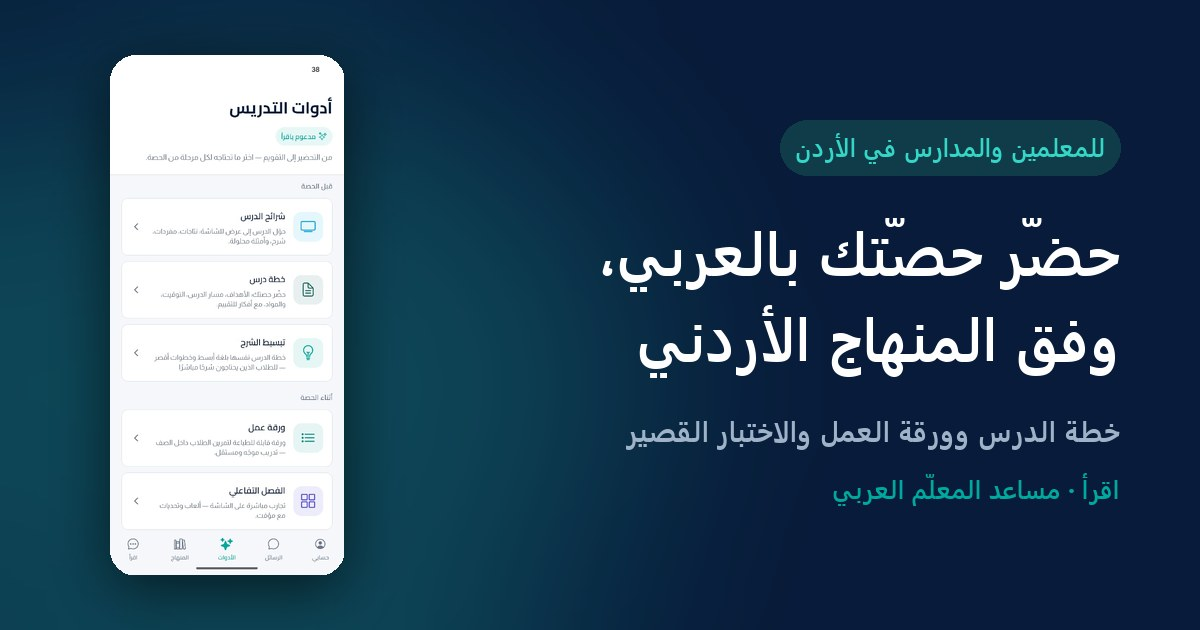
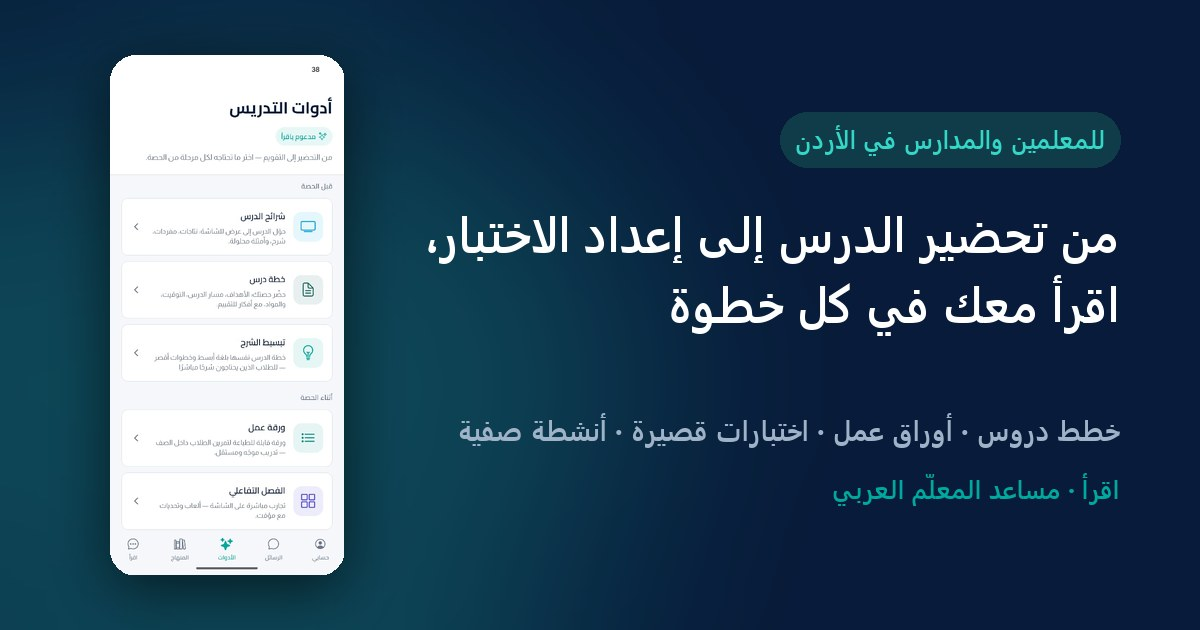
Lead with the whole journey, not just the first step
New hero headline and description, with the meta description, og:title and
og:image:alt moved in step.

The share card itself is re-rendered too — it carries the headline as pixels,
and had been two rewrites behind. The generator now lives in the repo as
tools-make-og.py so the next headline change can regenerate it in one
command instead of rebuilding the script from memory.

Changed region(s): [[0.3392, 0.3317, 0.9558, 0.6032], [0.6475, 0.1508, 0.925, 0.3016], [0.37, 0.6635, 0.925, 0.7238]]

diff --git a/index.html b/index.html
@@ -4,7 +4,7 @@
 <meta charset="utf-8">
 <meta name="viewport" content="width=device-width, initial-scale=1">
 <title>اقرأ — رفيقك في تحضير الحصص</title>
-<meta name="description" content="يساعدك اقرأ على إعداد خطة الدرس وورقة العمل والاختبار القصير وفق نتاجات التعلّم في المنهاج الأردني، جاهزة للتعديل والطباعة خلال دقائق.">
+<meta name="description" content="جهّز خطط الدروس وأوراق العمل والاختبارات القصيرة والواجبات والأنشطة الصفية، مبنية على نتاجات التعلّم في المنهاج الأردني وجاهزة للطباعة والعرض.">
 <!-- SVG for browsers that take it; .ico for Safari and crawlers that ask for
      /favicon.ico regardless; PNG for the iOS home screen. -->
 <link rel="icon" href="favicon.svg" type="image/svg+xml">
@@ -20,13 +20,13 @@
 <meta property="og:url" content="https://www.iqrra.com/">
 <meta property="og:locale" content="ar_JO">
 <meta property="og:site_name" content="اقرأ">
-<meta property="og:title" content="اقرأ — حضّر حصّتك بوقت أقل، وفق المنهاج الأردني">
-<meta property="og:description" content="يساعدك اقرأ على إعداد خطة الدرس، وورقة العمل، والاختبار القصير، بناءً على نتاجات التعلّم في المنهاج الأردني—جاهزة للتعديل والطباعة أو العرض خلال دقائق.">
+<meta property="og:title" content="من تحضير الدرس إلى إعداد الاختبار، اقرأ معك في كل خطوة">
+<meta property="og:description" content="جهّز خطط الدروس، وأوراق العمل، والاختبارات القصيرة، والواجبات، والأنشطة الصفية، وبسّط المفاهيم الصعبة لطلابك. كلّها مبنية على نتاجات التعلّم في المنهاج الأردني، وقابلة للتعديل بما يناسب صفّك، وجاهزة للطباعة والعرض.">
 <meta property="og:image" content="https://www.iqrra.com/img/og.jpg">
 <meta property="og:image:width" content="1200">
 <meta property="og:image:height" content="630">
 <meta property="og:image:type" content="image/jpeg">
-<meta property="og:image:alt" content="اقرأ — حضّر حصّتك بوقت أقل، وفق المنهاج الأردني.">
+<meta property="og:image:alt" content="من تحضير الدرس إلى إعداد الاختبار، اقرأ معك في كل خطوة.">
 <meta name="twitter:card" content="summary_large_image">
 <meta name="theme-color" content="#00A99D">
 
@@ -379,10 +379,11 @@
 <div class="hero">
   <div class="wrap">
     <span class="eyebrow">للمعلمين والمدارس في الأردن</span>
-    <h1>حضّر حصّتك بوقت أقل،<br>وفق المنهاج الأردني</h1>
+    <h1>من تحضير الدرس إلى إعداد الاختبار،<br>اقرأ معك في كل خطوة</h1>
     <p>
-      يساعدك اقرأ على إعداد خطة الدرس، وورقة العمل، والاختبار القصير، بناءً على
-      نتاجات التعلّم في المنهاج الأردني—جاهزة للتعديل والطباعة أو العرض خلال دقائق.
+      جهّز خطط الدروس، وأوراق العمل، والاختبارات القصيرة، والواجبات، والأنشطة الصفية،
+      وبسّط المفاهيم الصعبة لطلابك. كلّها مبنية على نتاجات التعلّم في المنهاج الأردني،
+      وقابلة للتعديل بما يناسب صفّك، وجاهزة للطباعة والعرض.
     </p>
     <div class="cta-row">
       <a class="btn btn-primary" href="https://app.iqrra.com">ابدأ من المتصفح</a>

diff --git a/tools-make-og.py b/tools-make-og.py
@@ -1,0 +1,95 @@
+"""Builds img/og.jpg, the 1200x630 share card.
+
+Run after the hero headline changes, then commit the image:
+
+    python tools-make-og.py
+
+The card carries the headline as rendered text, so it goes stale the moment
+the <h1> in index.html moves — and nothing on the site will tell you. Keep
+HEADLINE below identical to the <h1>.
+
+Needs Pillow, arabic_reshaper and python-bidi. arabic_reshaper strips
+diacritics unless told not to, which would turn جهّز into جهز on the card.
+"""
+from PIL import Image, ImageDraw, ImageFilter, ImageFont
+import arabic_reshaper
+from bidi.algorithm import get_display
+
+W, H = 1200, 630
+NAVY, TEAL, AQUA, MUTED = (8, 27, 58), (0, 169, 157), (52, 214, 198), (159, 179, 200)
+OUT = "img/og.jpg"
+SHOT = "img/tools.jpg"
+FONT = r"C:\Windows\Fonts\segoeuib.ttf"
+
+HEADLINE = ["من تحضير الدرس إلى إعداد الاختبار،", "اقرأ معك في كل خطوة"]
+EYEBROW = "للمعلمين والمدارس في الأردن"
+SUB = "خطط دروس · أوراق عمل · اختبارات قصيرة · أنشطة صفية"
+BRAND = "اقرأ · مساعد المعلّم العربي"
+
+_reshaper = arabic_reshaper.ArabicReshaper(
+    configuration={"delete_harakat": False, "support_ligatures": True}
+)
+
+
+def ar(t):
+    return get_display(_reshaper.reshape(t))
+
+
+def rounded(img, r):
+    mask = Image.new("L", img.size, 0)
+    ImageDraw.Draw(mask).rounded_rectangle([0, 0, *img.size], r, fill=255)
+    img.putalpha(mask)
+    return img
+
+
+base = Image.new("RGB", (W, H), NAVY)
+glow = Image.new("RGB", (W, H), NAVY)
+ImageDraw.Draw(glow).ellipse([-120, 60, 640, 700], fill=(14, 78, 92))
+base = Image.blend(base, glow.filter(ImageFilter.GaussianBlur(110)), 0.85)
+
+# Phone screenshot on the left, with a soft shadow.
+shot = Image.open(SHOT).convert("RGBA")
+sh = 520
+sw = round(shot.width * sh / shot.height)
+shot = rounded(shot.resize((sw, sh), Image.LANCZOS), 26)
+shadow = Image.new("RGBA", (W, H), (0, 0, 0, 0))
+ImageDraw.Draw(shadow).rounded_rectangle([110, 70, 110 + sw, 70 + sh], 26, fill=(0, 0, 0, 150))
+shadow = shadow.filter(ImageFilter.GaussianBlur(28))
+base.paste(Image.new("RGB", (W, H), (0, 0, 0)), (0, 0), shadow.split()[3])
+base.paste(shot, (110, 55), shot)
+
+d = ImageDraw.Draw(base)
+RIGHT = 1120
+COL = RIGHT - (110 + sw + 50)  # text column must clear the phone
+
+
+def fit(text, size, max_w):
+    """Largest size at or below `size` whose rendered width fits max_w."""
+    while size > 24:
+        f = ImageFont.truetype(FONT, size)
+        if d.textlength(ar(text), font=f) <= max_w:
+            return f
+        size -= 2
+    return ImageFont.truetype(FONT, size)
+
+
+def line(text, font, fill, y):
+    t = ar(text)
+    d.text((RIGHT - d.textlength(t, font=font), y), t, font=font, fill=fill)
+
+
+f_eye = ImageFont.truetype(FONT, 25)
+eye = ar(EYEBROW)
+ew = d.textlength(eye, font=f_eye)
+d.rounded_rectangle([RIGHT - ew - 30, 112, RIGHT, 167], 27, fill=(16, 60, 74))
+d.text((RIGHT - ew - 15, 122), eye, font=f_eye, fill=AQUA)
+
+# Both headline lines share one size so they read as one sentence.
+f_head = min((fit(h, 56, COL) for h in HEADLINE), key=lambda f: f.size)
+line(HEADLINE[0], f_head, (255, 255, 255), 200)
+line(HEADLINE[1], f_head, (255, 255, 255), 200 + f_head.size + 22)
+line(SUB, fit(SUB, 28, COL), MUTED, 410)
+line(BRAND, ImageFont.truetype(FONT, 26), TEAL, 470)
+
+base.save(OUT, "JPEG", quality=88, optimize=True)
+print(f"wrote {OUT} {base.size}, headline at {f_head.size}px in a {COL}px column")
